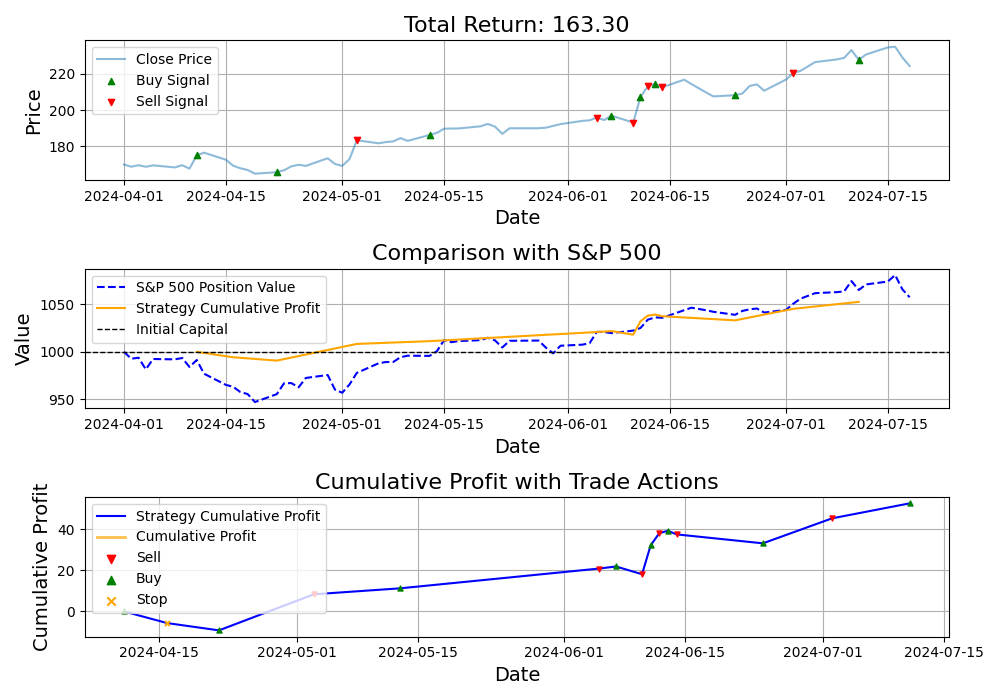
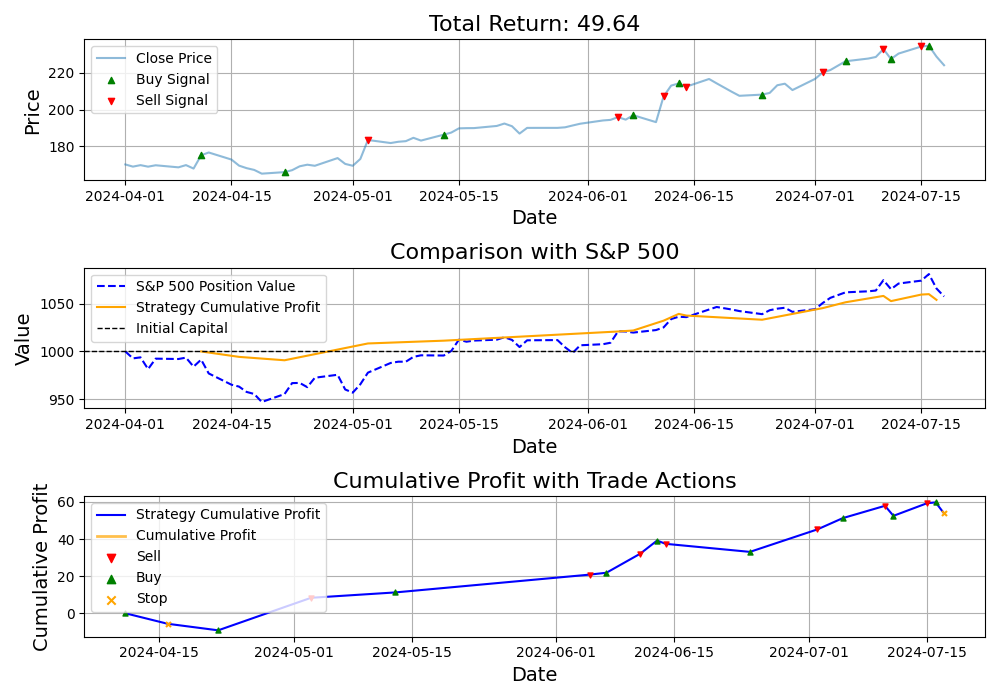
fix

diff --git a/utility/qlearning.py b/utility/qlearning.py
@@ -1,0 +1,96 @@
+import numpy as np
+import random
+from rich.progress import Progress
+
+from utility.calculate_returns import calculate_trading_signals
+
+
+
+def fitness(weights, buy_threshold, sell_threshold, df_strategy, df_data, signal_columns):  
+    return calculate_trading_signals(df_strategy, weights, buy_threshold, sell_threshold, signal_columns, df_data)
+
+def initialize_q_table(num_states, num_actions):
+    return np.zeros((num_states, num_actions))
+
+def select_action(state, q_table, epsilon):
+    if random.random() < epsilon:  # Explore
+        return random.randint(0, q_table.shape[1] - 1)
+    else:  # Exploit
+        return np.argmax(q_table[state])
+
+def update_q_table(q_table, state, action, reward, next_state, alpha, gamma):
+    best_next_action = np.argmax(q_table[next_state])
+    q_table[state, action] += alpha * (reward + gamma * q_table[next_state, best_next_action] - q_table[state, action])
+
+def abc_algorithm_qlearning(df_strategy, df_data, CS, MCN, limit, weights_range, x_range, signal_columns):
+    # Initialize bee population
+    bees = [{
+        'weights': [random.uniform(weights_range[0], weights_range[1]) for _ in range(len(signal_columns))],
+        'buy_threshold': random.uniform(x_range[0], x_range[1]),
+        'sell_threshold': random.uniform(x_range[0], x_range[1]),
+        'trials': 0
+    } for _ in range(CS)]
+
+    best_bee = None
+    best_fitness = -float('inf')
+    fitness_history = []
+    best_trades_df = None
+
+    # Initialize Q-learning parameters
+    q_table = initialize_q_table(num_states=CS, num_actions=len(signal_columns) * 3)
+    alpha = 0.1  # Learning rate
+    gamma = 0.9  # Discount factor
+    epsilon = 0.1  # Exploration rate
+
+    with Progress() as progress:
+        task = progress.add_task("Running ABC Algorithm with Q-learning...", total=MCN)
+
+        cycle = 1
+        while cycle <= MCN:
+            for s in range(CS):
+                # Define state based on the current bee's weights and thresholds
+                state = s  # You can enhance this to be a more meaningful representation
+                
+                # Select action using Q-learning
+                action = select_action(state, q_table, epsilon)
+                
+                # Generate new solution based on action
+                new_weights = [random.uniform(weights_range[0], weights_range[1]) for _ in range(len(signal_columns))]
+                new_buy_threshold = random.uniform(x_range[0], x_range[1])
+                new_sell_threshold = random.uniform(x_range[0], x_range[1])
+
+                # Calculate fitness of new solution
+                new_fitness, new_trades_df = fitness(new_weights, new_buy_threshold, new_sell_threshold, df_strategy, df_data, signal_columns)
+
+                # Determine reward (for example, fitness improvement)
+                reward = new_fitness - fitness(bees[s]['weights'], bees[s]['buy_threshold'], bees[s]['sell_threshold'], df_strategy, df_data, signal_columns)[0]
+
+                # Update Q-table
+                update_q_table(q_table, state, action, reward, state, alpha, gamma)
+
+                # Greedy selection logic remains the same
+                if new_fitness > fitness(bees[s]['weights'], bees[s]['buy_threshold'], bees[s]['sell_threshold'], df_strategy, df_data, signal_columns)[0]:
+                    bees[s]['weights'] = new_weights
+                    bees[s]['buy_threshold'] = new_buy_threshold
+                    bees[s]['sell_threshold'] = new_sell_threshold
+                    bees[s]['trials'] = 0
+                else:
+                    bees[s]['trials'] += 1
+
+            for bee in bees:
+                current_fitness, current_trades_df = fitness(bee['weights'], bee['buy_threshold'], bee['sell_threshold'], df_strategy, df_data, signal_columns)
+                
+                # Check if the current bee's fitness is better than the best found so far
+                if current_fitness > best_fitness:
+                    best_bee = bee.copy()  # Store the current best bee's parameters
+                    best_fitness = current_fitness
+                    best_trades_df = current_trades_df
+                    print(f"Cycle {cycle}: Best Fitness updated: {best_fitness:.4f}")
+
+            # Update the progress bar
+            progress.update(task, advance=1)
+            cycle += 1
+
+    # Plotting and returning results
+
+    return best_bee, best_fitness, best_trades_df

diff --git a/main.py b/main.py
@@ -1,6 +1,7 @@
 import json
 import yfinance as yf
 from datetime import datetime
+from utility.qlearning import abc_algorithm_qlearning
 from utility.abc_algorithm import abc_algorithm
 from utility.reward_func import  dqn_algorithm
 from utility.func import adjust_weights
@@ -35,25 +36,26 @@ def main():
 
 
 #    Execute ABC algorithm
-    # best_bee, best_fitness, best_trades_df = abc_algorithm(
-    #     df_strategy,
-    #     df_data, 
-    #     Environment.CS, 
-    #     Environment.MCN,
-    #     Environment.limit, 
-    #     Environment.weights_range, 
-    #     Environment.x_range, 
-    #     signal_columns
-    #     # Environment.MAX_PROCESS_WORKERS,
-    #     # Environment.MAX_THREAD_WORKERS,
-    # )    
+    best_bee, best_fitness, best_trades_df = abc_algorithm_qlearning(
+        df_strategy,
+        df_data, 
+        Environment.CS, 
+        Environment.MCN,
+        Environment.limit, 
+        Environment.weights_range, 
+        Environment.x_range, 
+        signal_columns
+        # Environment.MAX_PROCESS_WORKERS,
+        # Environment.MAX_THREAD_WORKERS,
+    )    
     
-    best_bee, best_fitness, best_trades_df =  dqn_algorithm(df_strategy, df_data, 
-                                                            Environment.MCN,
-                                                            Environment.weights_range,
-                                                            Environment.x_range,
-                                                            signal_columns)
+    # best_bee, best_fitness, best_trades_df =  dqn_algorithm(df_strategy, df_data, 
+    #                                                         Environment.MCN,
+    #                                                         Environment.weights_range,
+    #                                                         Environment.x_range,
+    #                                                         signal_columns)
     
+        
     end_time = datetime.now()
     duration = end_time - start_time
 

diff --git a/utility/reward_func.py b/utility/reward_func.py
@@ -3,6 +3,7 @@ import numpy as np
 import torch
 from rich.progress import Progress
 from rich.console import Console
+import multiprocessing as mp
 
 from utility.tool import log_gpu_usage, get_local_device
 from utility.DQNAgent import DQNAgent
@@ -45,9 +46,11 @@ def dqn_algorithm(df_strategy, df_data, episodes, weights_range, x_range, signal
             # Initialize state (e.g., random weights, buy_threshold, sell_threshold)
             state = np.concatenate(([random.uniform(weights_range[0], weights_range[1]) for _ in range(len(signal_columns))],
                                     [random.uniform(x_range[0], x_range[1]), random.uniform(x_range[0], x_range[1])]))
+
             done = False
             total_reward = 0
             step_count  = 0 
+            
             while not done and step_count < max_steps:
                 action = agent.act(state)
 
@@ -98,9 +101,7 @@ def dqn_algorithm(df_strategy, df_data, episodes, weights_range, x_range, signal
     
     writer.close() 
     plot_dqn_convergence(fitness_history, episodes)
-    
-    # ???
-    # plot_metrics(agent)
+  
     
 
     return best_bee, best_fitness, best_trades_df

diff --git a/utility/DQNAgent.py b/utility/DQNAgent.py
@@ -50,7 +50,9 @@ class DQNAgent:
         minibatch = random.sample(self.memory, batch_size)
 
         # Prepare the batch
-        states = torch.FloatTensor([sample[0] for sample in minibatch]).to(self.device)
+        # states = torch.FloatTensor([sample[0] for sample in minibatch]).to(self.device)
+        states = torch.FloatTensor(np.array([sample[0] for sample in minibatch])).to(self.device)
+
         actions = torch.LongTensor([sample[1] for sample in minibatch]).to(self.device)
         rewards = torch.FloatTensor([sample[2] for sample in minibatch]).to(self.device)
         next_states = torch.FloatTensor([sample[3] for sample in minibatch]).to(self.device)

diff --git a/utility/print.py b/utility/print.py
@@ -34,8 +34,8 @@ console = Console()
 
 def display_results(best_bee, best_fitness, time, profit_ratio, trades_df):
     # Formatting the best results
-    # best_weights_str = ', '.join([f'{w:.2f}' for w in best_bee['weights']])
-    best_weights_str = ', '.join([f'{w:.2f}' for w in best_bee])
+    best_weights_str = ', '.join([f'{w:.2f}' for w in best_bee['weights']])
+    # best_weights_str = ', '.join([f'{w:.2f}' for w in best_bee])
     # best_threshold_str = f"Sell Threshold: {best_bee['sell_threshold']:.2f}, Buy Threshold: {best_bee['buy_threshold']:.2f}"
     best_return_str = f"{best_fitness:.0f} shares"
 

diff --git a/ENV.py b/ENV.py
@@ -10,11 +10,11 @@ class Environment(object):
     MAX_THREAD_WORKERS = 30
     MAX_PROCESS_WORKERS = 30
     target_stock = "AAPL"
-    start_date = datetime(2024, 4, 1)
+    start_date = datetime(2018, 4, 1)
     end_date = datetime(2024, 7, 19)
     
     CS=60          
-    MCN=2
+    MCN=10000
     limit=20
     weights_range = [0, 1, 2, 3, 4, 5]
     x_range = np.arange(0.05, 0.5, 0.05)
